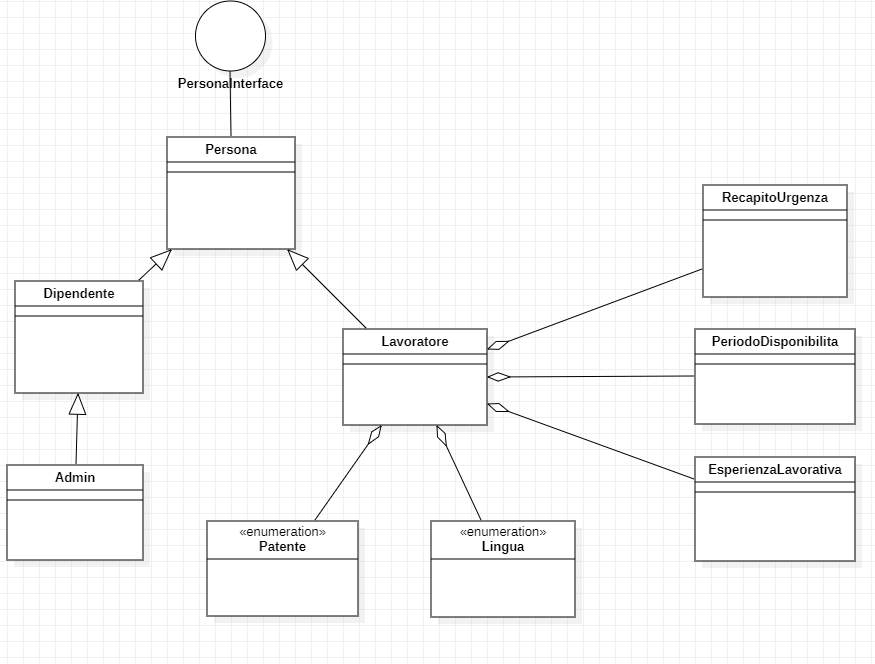
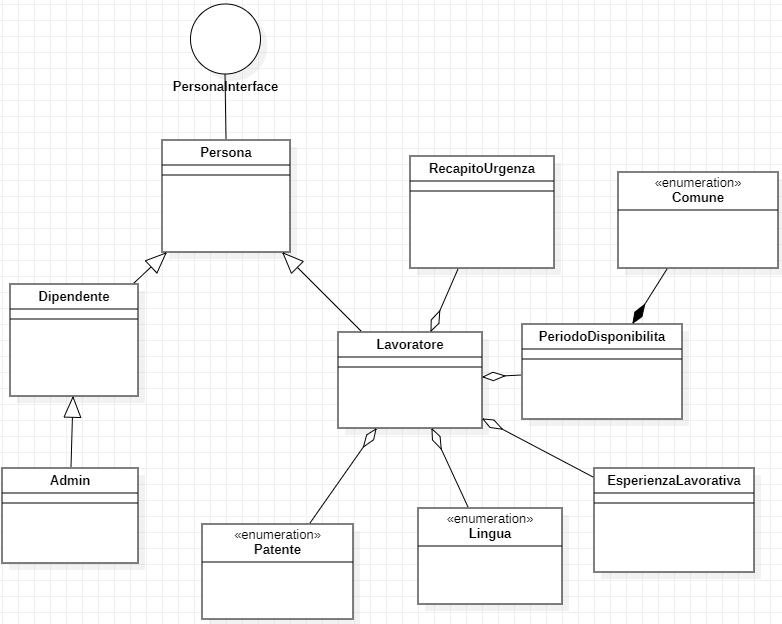
Add files via upload

diff --git a/relazione/elaborato.tex b/relazione/elaborato.tex
@@ -8,7 +8,7 @@
 \usepackage{xcolor}
 
 \title{Progetto Lavoratori Stagionali}
-\author{Christian Farina,  Stefano Zenaro}
+\author{Christian Farina\\Stefano Zenaro}
 \date{anno 2021/2022}
 
 \begin{document}
@@ -115,19 +115,6 @@ Di seguito è riportato un elenco delle classi suddivise per tipologia, seguirà
 \item ManagementSystemResponse
 \item ManagementSystemStatus (enumerazione)
 \end{itemize}
-\textbf{Classi che rappresentano i dati da memorizzare}
-\begin{itemize}
-\item Admin
-\item Dipendente
-\item EsperienzaLavorativa
-\item Lavoratore
-\item Lingua (enumerazione)
-\item Patente (enumerazione)
-\item PeriodoDisponibilita
-\item Persona
-\item PersonaInterface
-\item RecapitoUrgenze
-\end{itemize}
 \textbf{Classi per la grafica}
 \begin{itemize}
 \item FinestraContatto
@@ -139,6 +126,21 @@ Di seguito è riportato un elenco delle classi suddivise per tipologia, seguirà
 \item FinestraRicerca
 \item FinestraVisualizzaContatti
 \end{itemize}
+\textbf{Classi che rappresentano i dati da memorizzare}
+\begin{itemize}
+\item Admin
+\item Comune
+\item Dipendente
+\item EsperienzaLavorativa
+\item Lavoratore
+\item Lingua (enumerazione)
+\item Patente (enumerazione)
+\item PeriodoDisponibilita
+\item Persona
+\item PersonaInterface
+\item RecapitoUrgenze
+\end{itemize}
+
 \section{Diagramma delle classi}
 \includegraphics[width=185mm]{classi.png}
 Nota: le parti di rappresentazione delle classi riguardanti l'interfaccia grafica e il Management system sono state omesse poichè non fondamentali per capire l'organizzazione dell'applicazione.
